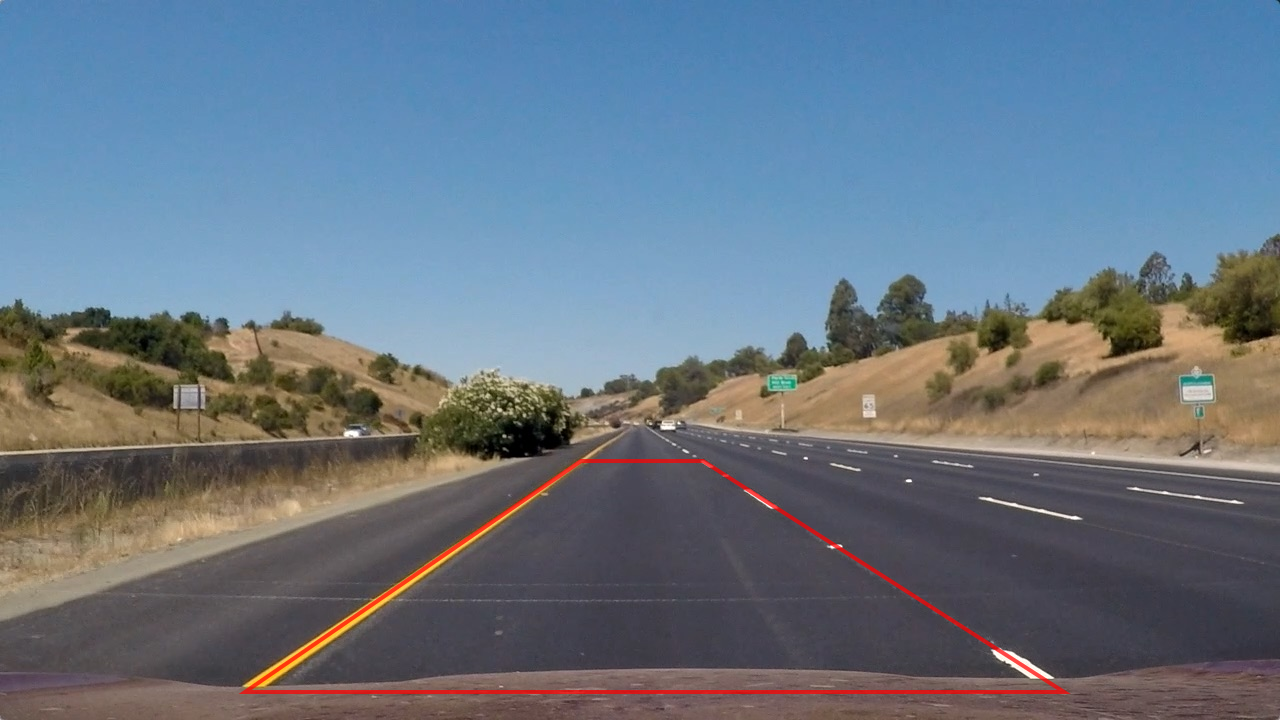
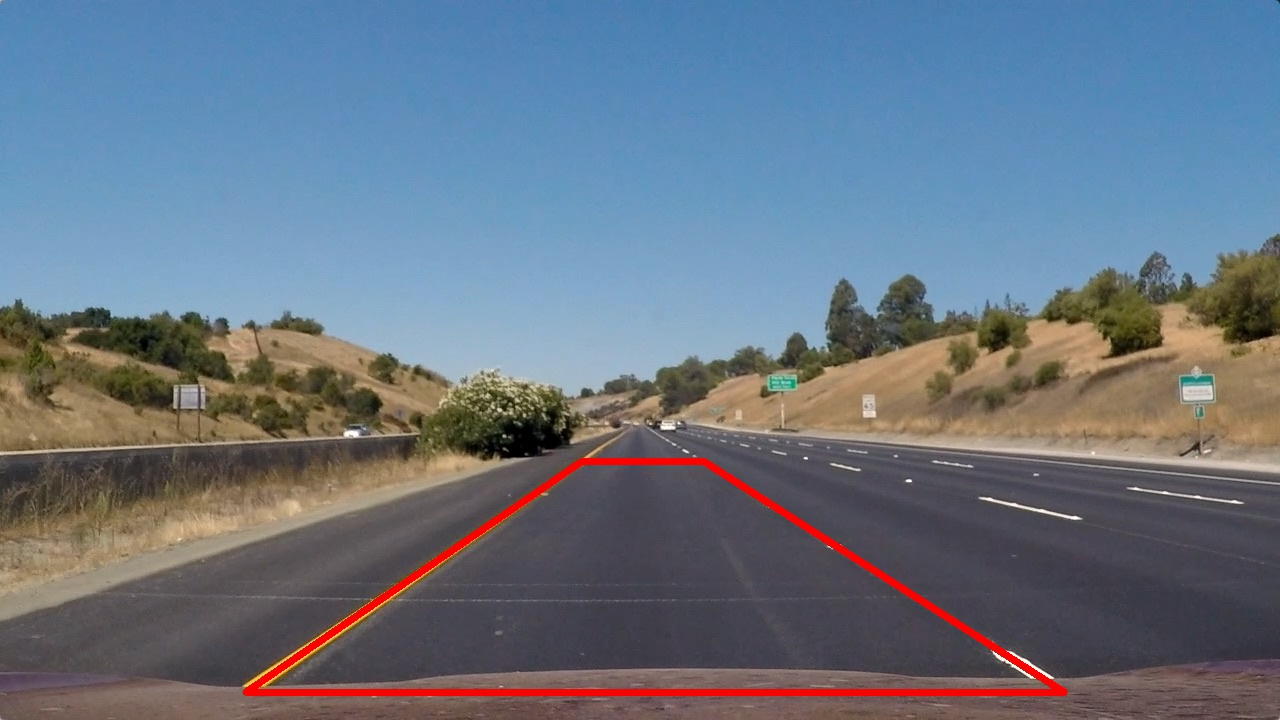
Draw perspective rectangle in sample images

diff --git a/lanelines/process.py b/lanelines/process.py
@@ -36,11 +36,16 @@ def undistort_sample_images(camera):
 
 
 def unwarp_sample_images(camera):
-    for filename in ["../output_images/straight_lines1_perspective.jpg", "../test_images/test2.jpg"]:
-        print("unwarp", filename)
-        output_filename = filename.replace("test_images", "output_images").replace(".jpg", "_unwarped.jpg")
-        image = cv2.imread(filename)
-        cv2.imwrite(output_filename, camera.unwarp(camera.undistort(image)))
+    for i, image_name in enumerate(["straight_lines1", "test2"]):
+        print("unwarp", image_name)
+        image = cv2.imread("../test_images/"+image_name+".jpg")
+        unwarped = camera.unwarp(camera.undistort(image))
+        if i == 0:
+            cv2.polylines(image, np.int32([camera.perspective_source_points]), 1, (0, 0, 255), 5)
+            cv2.imwrite("../output_images/" + image_name + "_perspective.jpg", image)
+            cv2.polylines(unwarped, np.int32([camera.perspective_dest_points]), 1, (0, 0, 255), 5)
+
+        cv2.imwrite("../output_images/"+image_name+"_unwarped.jpg", unwarped)
 
 
 def binarize_sample_images(detector):
